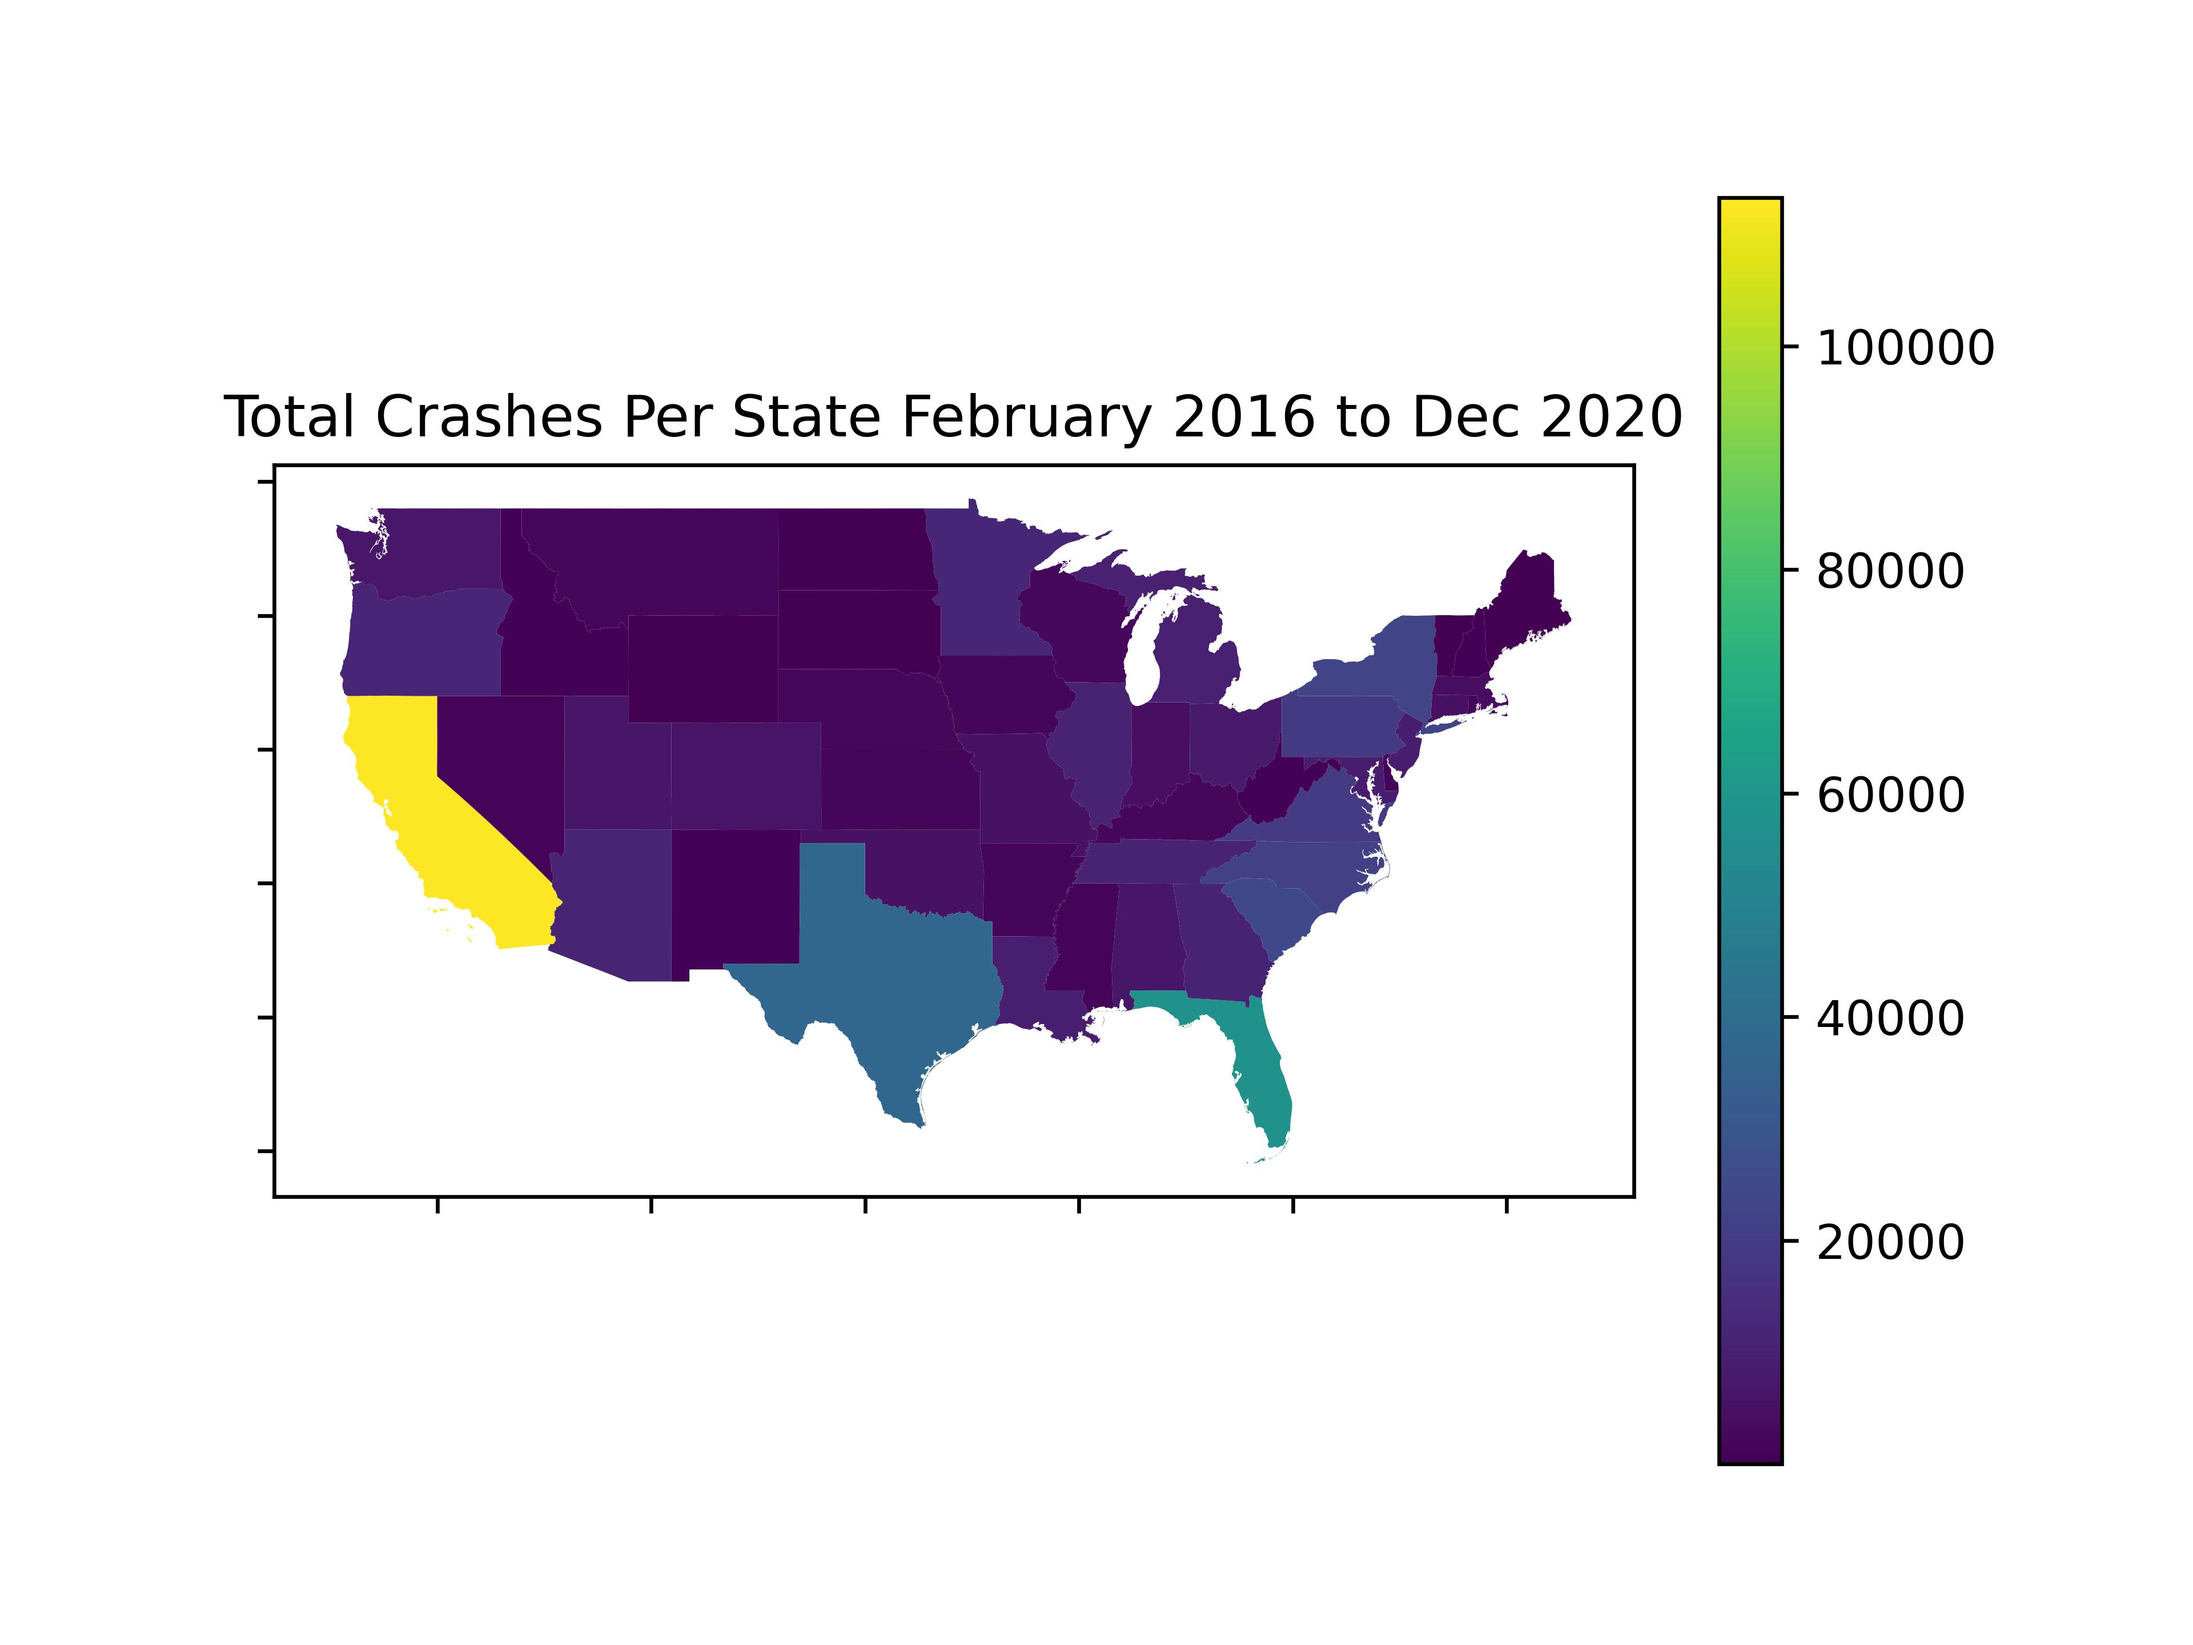
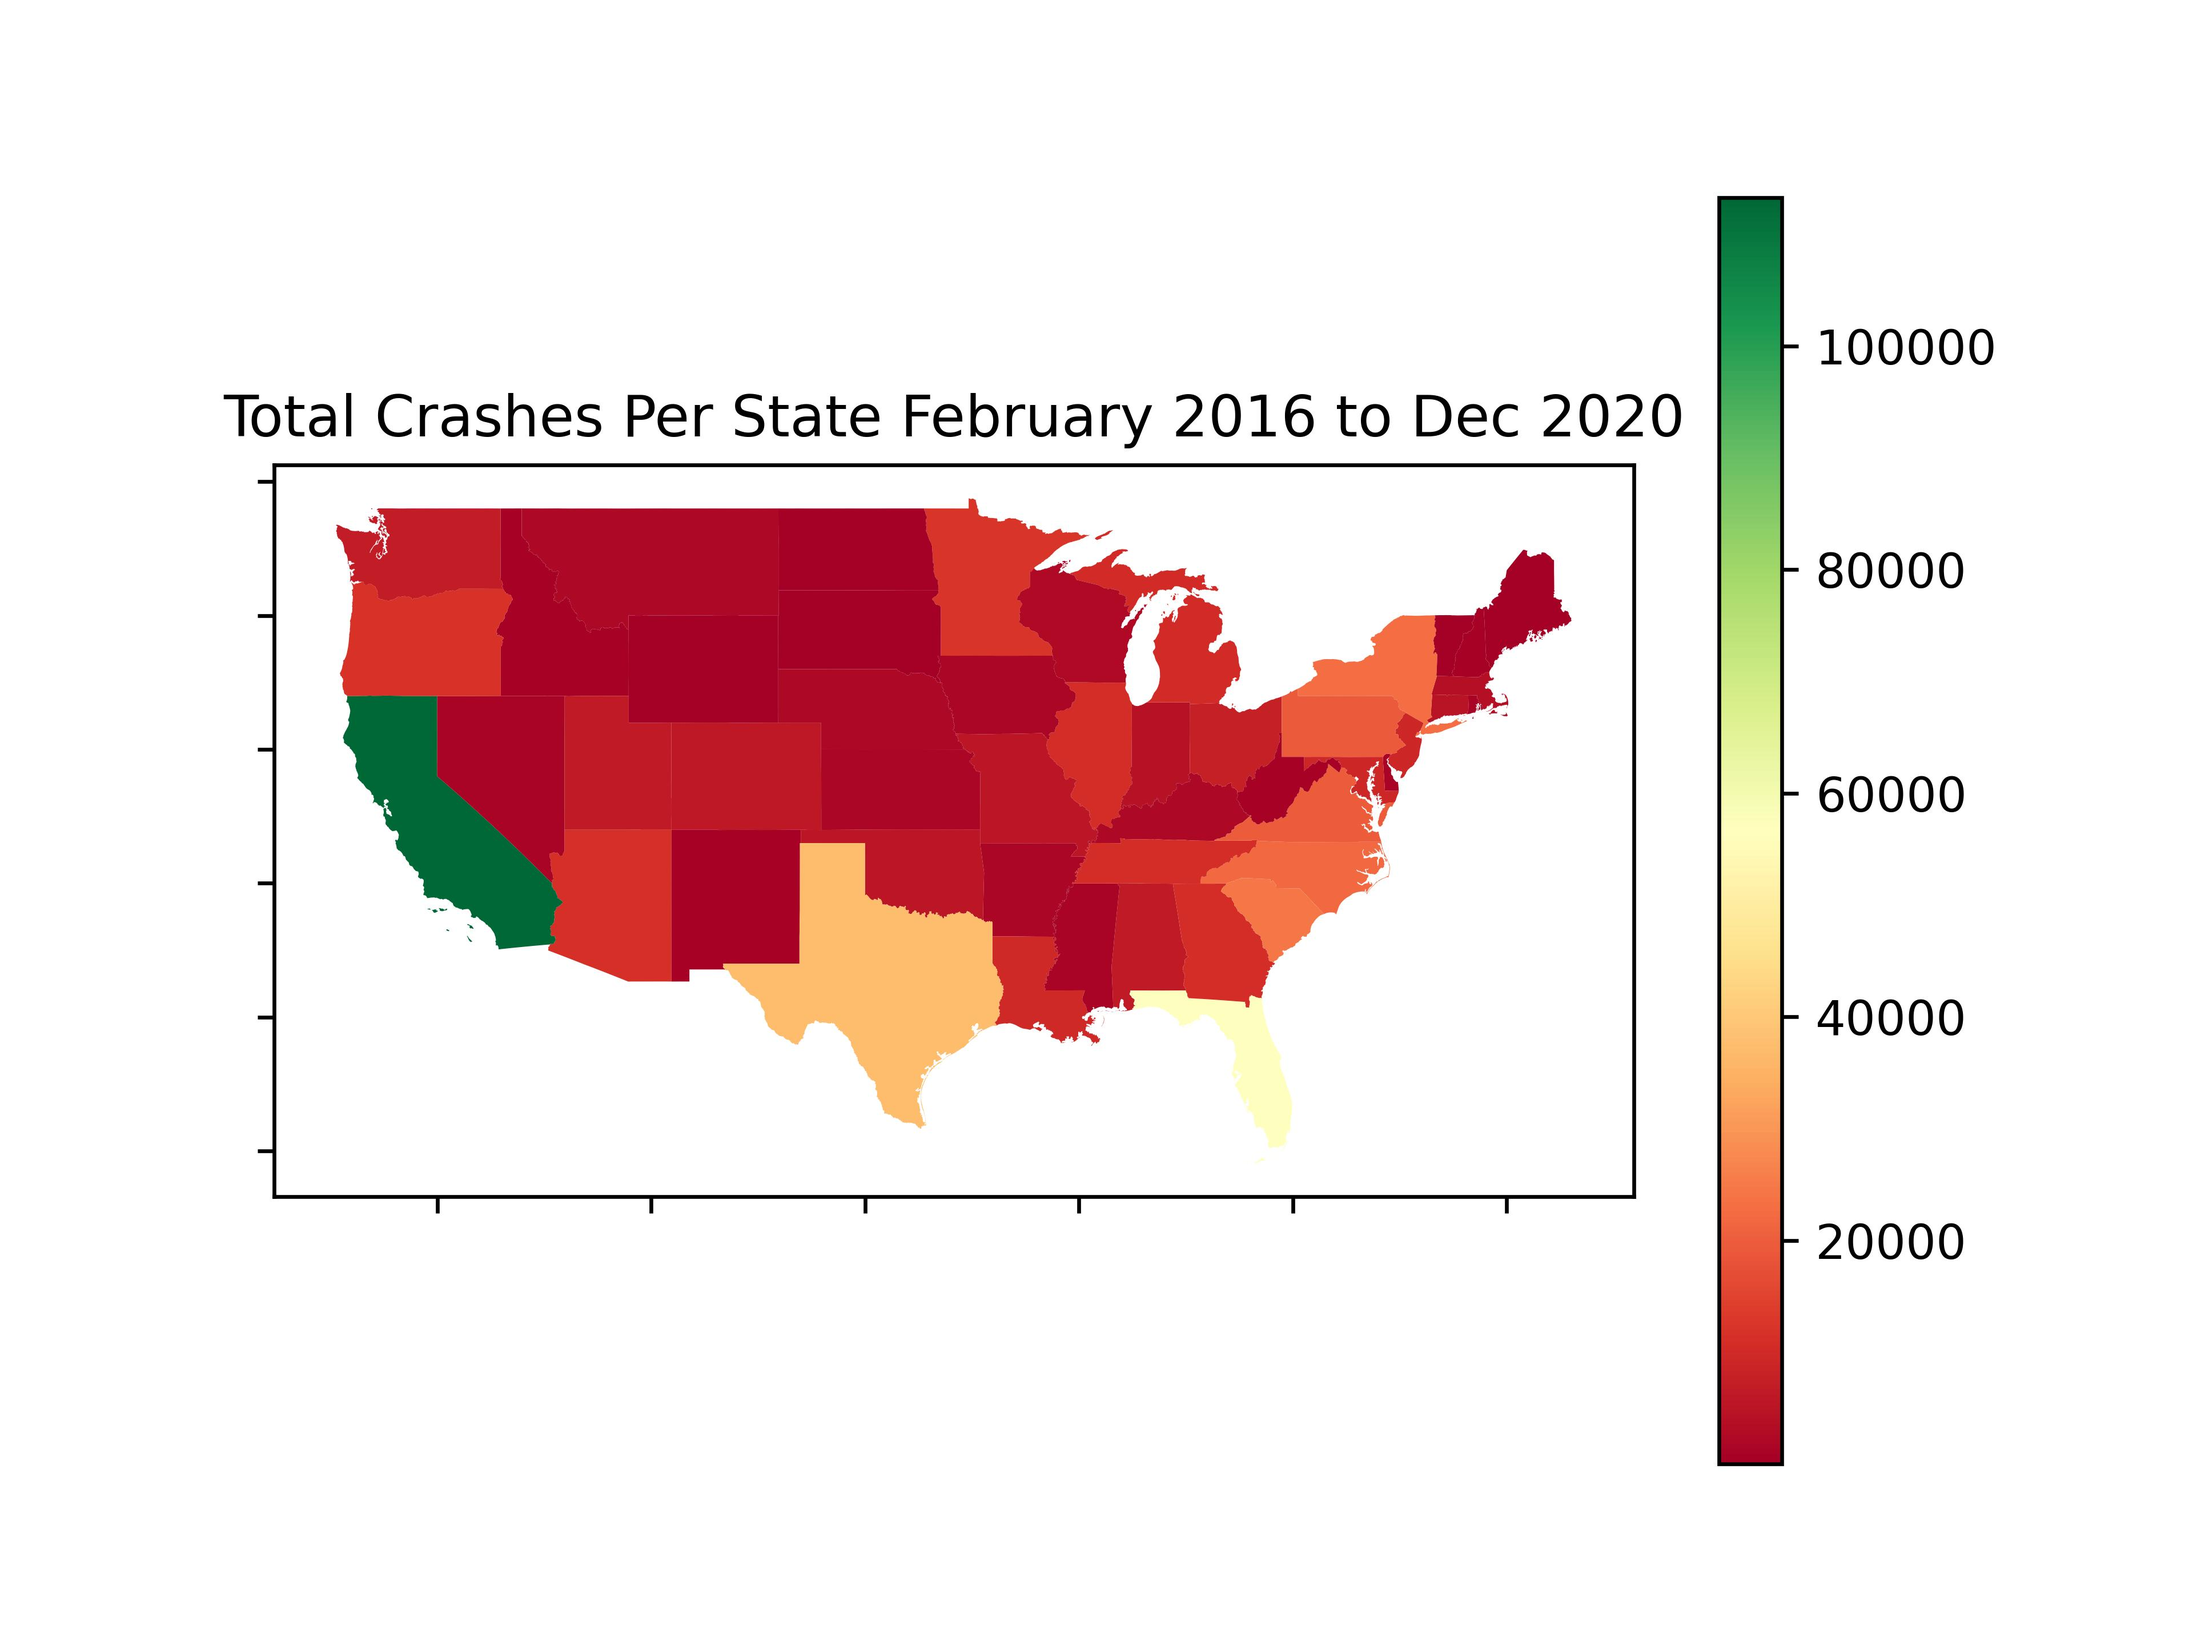
line 150 and pie chart need fixing
finish finish finish

Changed region(s): [[0.1562, 0.2812, 0.7188, 0.7188], [0.7812, 0.0938, 0.8125, 0.9062]]

diff --git a/graphs.py b/graphs.py
@@ -72,7 +72,7 @@ def makeGraphs(df,country,highgdf):
     ax.set_yticklabels([])
     ax.set_xticklabels([])
     plt.title('Crash Locations in the US visualized February 2016 to Dec 2020')
-    gdf2.plot(aspect=1,ax=ax,markersize=0.1,cmap='PuBu') #column="POP2010"
+    gdf2.plot(aspect=1,ax=ax,markersize=0.1,cmap='RdYlGn') #column="POP2010"
     plt.savefig('america.jpg', dpi=600)
 
     #show crashes per state
@@ -87,7 +87,7 @@ def makeGraphs(df,country,highgdf):
     #turn off tick lables, as they aren't usefull
     ax.set_yticklabels([])
     ax.set_xticklabels([])
-    country2.plot(column = 'ID',ax=ax,legend=True)
+    country2.plot(column = 'ID',ax=ax,legend=True,cmap="RdYlGn")
 
     #plt.xlabel('x label')
     #plt.ylabel('y label')
@@ -107,7 +107,7 @@ def makeGraphs(df,country,highgdf):
     #turn off tick lables, as they aren't usefull
     ax.set_yticklabels([])
     ax.set_xticklabels([])
-    country2.plot(column = 'crashsesperpop',ax=ax,legend=True)
+    country2.plot(column = 'crashsesperpop',ax=ax,legend=True,cmap="RdYlGn")
     plt.title('Crashes Per Person Per State (2020)')
     plt.savefig('statesadjusted.jpg', dpi=600)
 
@@ -137,15 +137,27 @@ def makeGraphs(df,country,highgdf):
                 loc = loc //2
             plt.text(i, loc, x[i] + f" ({y[i]})",rotation = 90,ha = 'center',va='bottom')
     common["Name"] = common.apply(makename,axis=1)
-    common = common.nlargest(10, 'count')
+    common2 = common.nlargest(10, 'count')
     fig, ax = plt.subplots()
     #plt.xticks(rotation=90)
     ax.set_xticklabels([])
     plt.title('10 most common elements near a crash February 2016 to Dec 2020')
-    addlabels(common["Name"], common['count'])
+    addlabels(common2["Name"], common2['count'])
     plt.ylabel('Crash Count')
-    ax.bar(common["Name"], common['count'])#, label=bar_labels, color=bar_colors
+    ax.bar(common2["Name"], common2['count'])#, label=bar_labels, color=bar_colors
     plt.savefig('situations.jpg', dpi=600)
+
+    #TODO FIX FIX FIX FIX FIX 
+
+    common3=common.drop(common[common['Name'] == 'Nothing'].index)
+    fig, ax = plt.subplots()
+    #plt.xticks(rotation=90)
+    ax.set_xticklabels([])
+    plt.title('10 most common elements near a crash February 2016 to Dec 2020')
+    addlabels(common3["Name"], common3['count'])
+    plt.ylabel('Crash Count')
+    ax.bar(common3["Name"], common3['count'])#, label=bar_labels, color=bar_colors
+    plt.savefig('situations2.jpg', dpi=600)
     #plt.bar(courses, values, color ='maroon', width = 0.4)
     
     #Interactive Graphs
